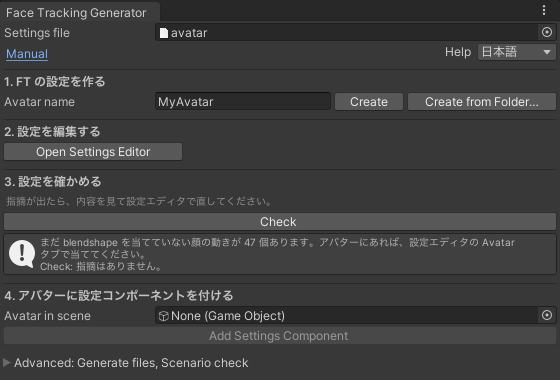
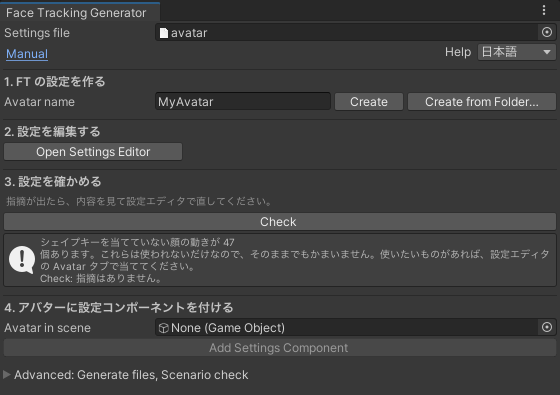
Say that Not set face movements are fine in Check's result

diff --git a/Packages/dev.kmnk.face-tracking-generator/Documentation~/manual-ja/index.html b/Packages/dev.kmnk.face-tracking-generator/Documentation~/manual-ja/index.html
@@ -160,7 +160,7 @@ blockquote { margin: 1em 0; padding: 0 1em; color: var(--muted); border-left: 4p
 <p>画像は、パーフェクトシンクでないアバターで手順 6 まで進めた Avatar タブです。そのため <em>Not set</em> が多く残っています。シェイプキーとアセットの名前は隠しています。</p>
 <h3 id="3-設定を確かめる">3. 設定を確かめる</h3>
 <p>FTG のウィンドウに戻り、<strong>Check</strong> を押します。指摘があれば、読んで設定エディタで直します。</p>
-<p>うまくいくと、ボタンの下に「Check: 指摘はありません。」と出ます。<em>Not set</em> の Face movement が残っていると、その数が 1 行で出ます。</p>
+<p>うまくいくと、ボタンの下に「Check: 指摘はありません。」と出ます。<em>Not set</em> の Face movement が残っていると、その数と、そのままでかまわないことが一緒に出ます。</p>
 <p><img src="images/generator-check.png" alt="Check の結果"></p>
 <h3 id="4-アバターに設定コンポーネントを付ける">4. アバターに設定コンポーネントを付ける</h3>
 <ol>

diff --git a/Packages/dev.kmnk.face-tracking-generator/Editor/TableEditor/EditorText.cs b/Packages/dev.kmnk.face-tracking-generator/Editor/TableEditor/EditorText.cs
@@ -142,7 +142,7 @@ namespace Kmnk.FaceTrackingGenerator
             ["gen.created"] = ("Created {0}.", "{0} を作りました。"),
             ["gen.checkNone"] = ("Check: no findings.", "Check: 指摘はありません。"),
             ["gen.checkFindings"] = ("Check: {0} findings.\n{1}", "Check: 指摘が {0} 件あります。\n{1}"),
-            ["gen.unset"] = ("{0} face movements have no blendshape yet. If the avatar has them, set them in the Avatar tab of the settings editor.", "まだ blendshape を当てていない顔の動きが {0} 個あります。アバターにあれば、設定エディタの Avatar タブで当ててください。"),
+            ["gen.unset"] = ("{0} face movements have no blendshape and are not used, which is fine. To use one, set its blendshape in the Avatar tab of the settings editor.", "シェイプキーを当てていない顔の動きが {0} 個あります。これらは使われないだけなので、そのままでもかまいません。使いたいものがあれば、設定エディタの Avatar タブで当ててください。"),
             ["gen.attached"] = ("Added the settings component to {0}. FT is made on Play and upload.", "{0} に設定のコンポーネントを付けました。Play とアップロードのときに FT が作られます。"),
             ["gen.generated"] = ("Generated.\n{0}", "生成しました。\n{0}"),
             ["gen.running"] = ("Running {0}. The record goes to {1}.", "{0} を流しています。記録は {1} に書きます。"),

diff --git a/docs/manual-ja/README.md b/docs/manual-ja/README.md
@@ -98,7 +98,7 @@ FTG は VPM のパッケージです。VCC か ALCOM で入れます。
 
 FTG のウィンドウに戻り、**Check** を押します。指摘があれば、読んで設定エディタで直します。
 
-うまくいくと、ボタンの下に「Check: 指摘はありません。」と出ます。*Not set* の Face movement が残っていると、その数が 1 行で出ます。
+うまくいくと、ボタンの下に「Check: 指摘はありません。」と出ます。*Not set* の Face movement が残っていると、その数と、そのままでかまわないことが一緒に出ます。
 
 ![Check の結果](images/generator-check.png)
 
